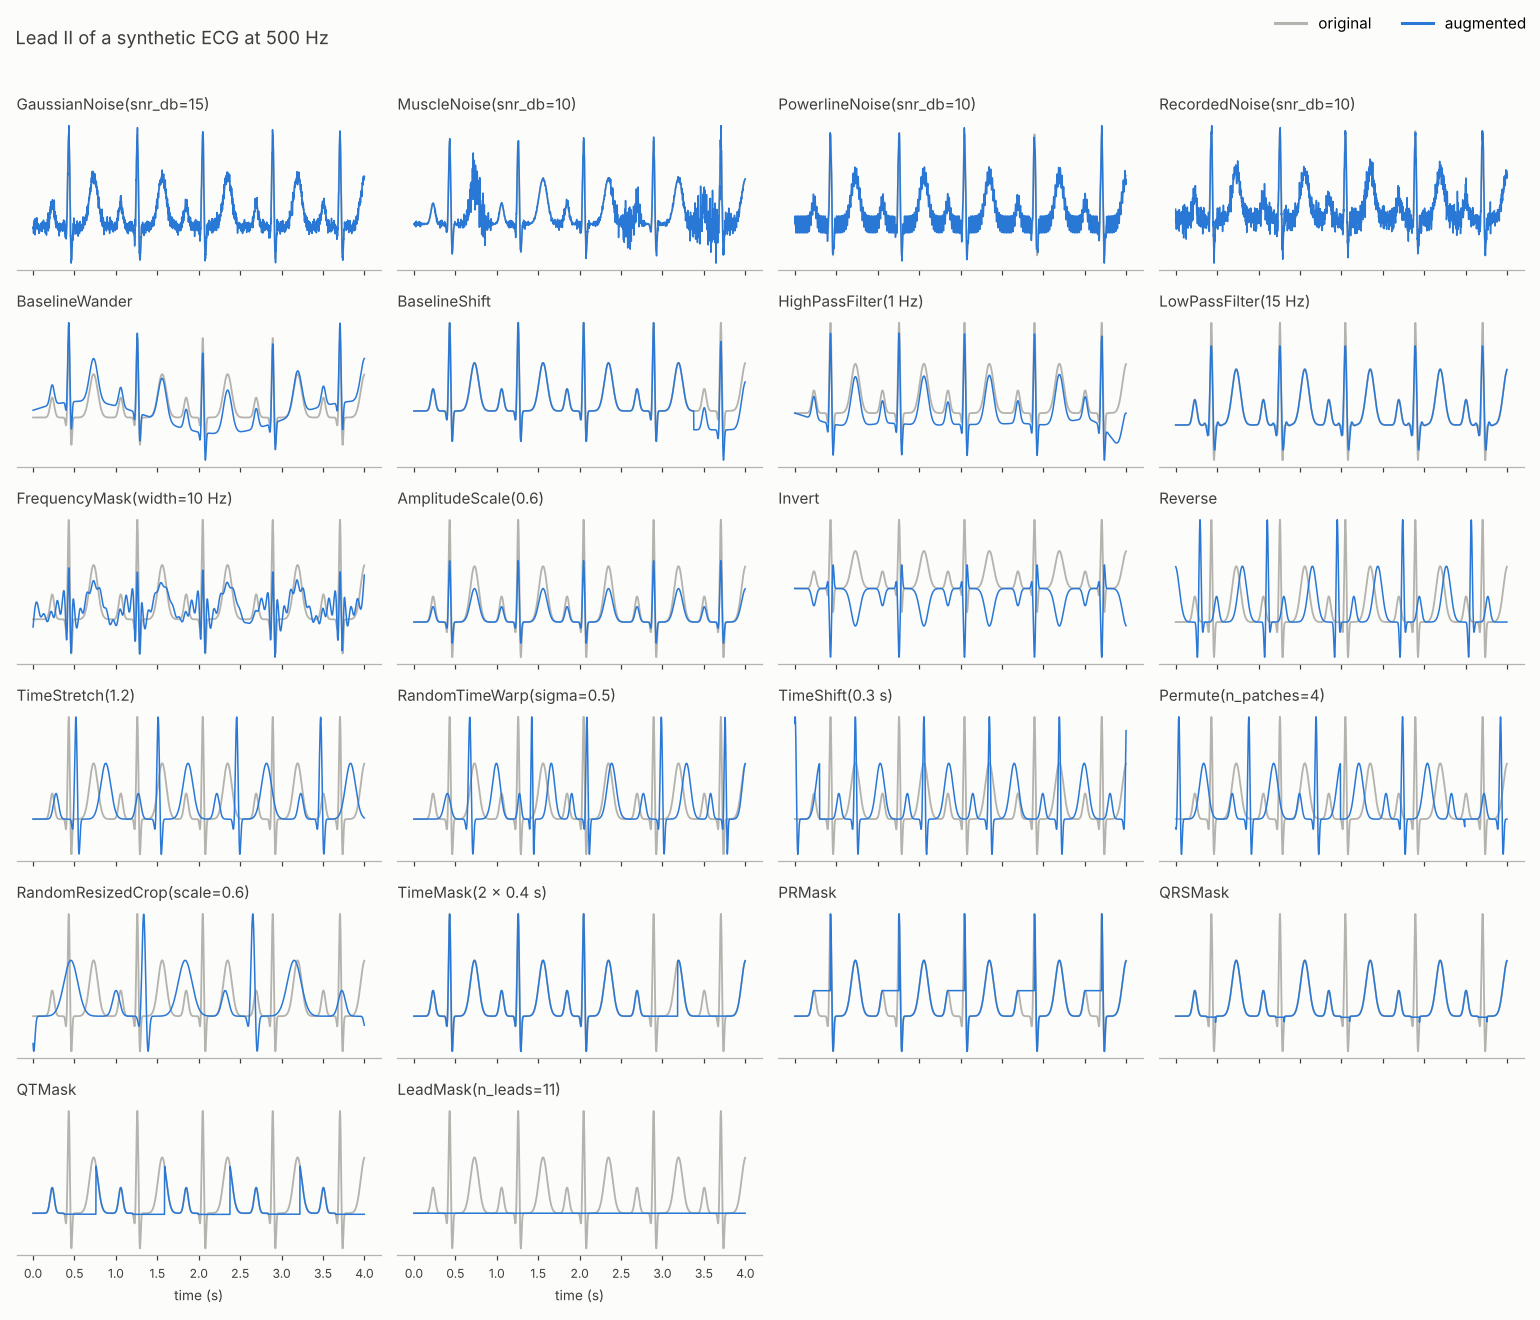
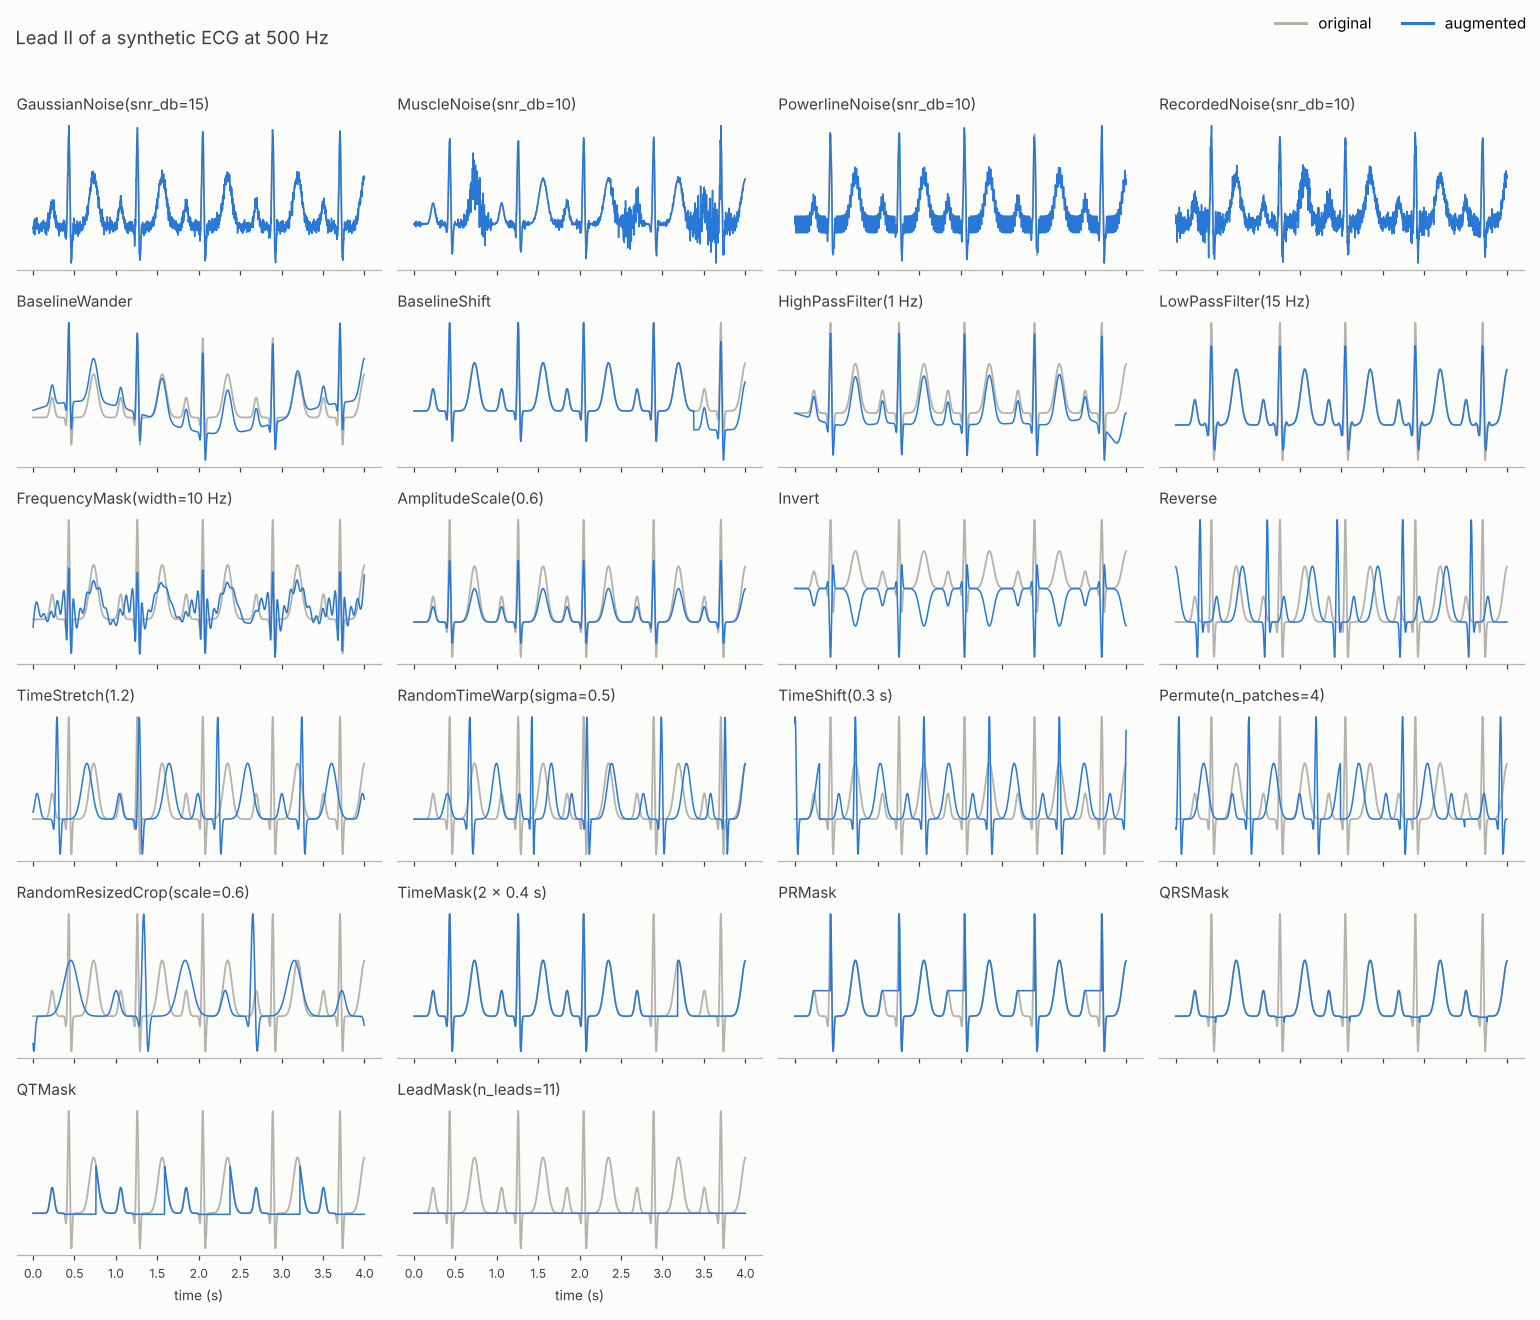
Place TimeStretch window randomly instead of anchoring at the start
Stretching now keeps a random window of the stretched signal without padding;
compressing splits the edge padding randomly between both ends.

Claude-Session: https://claude.ai/code/session_01DPuCMPiJsXBoCGHFpKF4Lr

Changed region(s): [[0.0312, 0.5591, 0.2494, 0.6523], [0.7481, 0.1242, 0.9662, 0.1864]]

diff --git a/ecg_augmentations/augmentations/time.py b/ecg_augmentations/augmentations/time.py
@@ -8,8 +8,9 @@ from ..ops import interp
 class TimeStretch(Transform):
     """Stretch the signal in time by a random factor, keeping its length.
 
-    A factor k > 1 lengthens all intervals (lower heart rate) and drops the end;
-    k < 1 shortens them and pads the end by repeating the last sample.
+    A factor k > 1 lengthens all intervals (lower heart rate) and keeps a random
+    window of the stretched signal; k < 1 shortens them and pads both ends, by a
+    random split, with the edge values.
 
     Args:
         factor: stretch factor or (low, high) range, all positive.
@@ -20,10 +21,11 @@ class TimeStretch(Transform):
         self.factor = as_range(factor, "factor", low=1e-6)
 
     def apply(self, x, generator=None):
-        factor = uniform(self.factor, (x.shape[0], 1, 1), x, generator)
-        return interp(
-            x, torch.arange(x.shape[-1], device=x.device, dtype=x.dtype) / factor
-        )
+        b, _, t = x.shape
+        factor = uniform(self.factor, (b, 1, 1), x, generator)
+        offset = uniform((0, 1), (b, 1, 1), x, generator) * (t - 1) * (1 - 1 / factor)
+        idx = torch.arange(t, device=x.device, dtype=x.dtype)
+        return interp(x, offset + idx / factor)
 
 
 class RandomTimeWarp(Transform):

diff --git a/tests/test_numerics.py b/tests/test_numerics.py
@@ -105,13 +105,24 @@ def test_random_crop_is_window(ecg):
     assert torch.equal(y, ecg[:, start : start + 300])
 
 
-def test_time_stretch(ecg):
+def r_peaks(lead):
+    is_max = (lead[1:-1] > lead[:-2]) & (lead[1:-1] >= lead[2:]) & (lead[1:-1] > 0.6)
+    return is_max.nonzero().flatten() + 1
+
+
+@pytest.mark.parametrize("factor", [0.8, 1.25])
+def test_time_stretch(ecg, factor):
     assert torch.allclose(ea.TimeStretch(1.0)(ecg), ecg, atol=1e-6)
-    y = ea.TimeStretch(1.25)(ecg)
-    stretched = (PEAKS * 1.25).round().long()
-    stretched = stretched[stretched < ecg.shape[-1]]
-    assert torch.allclose(y[0, stretched], ecg[0, PEAKS[: len(stretched)]], atol=0.15)
-    assert torch.all(y[0, stretched] > 0.8)
+    y = ea.TimeStretch(factor)(ecg)
+    rr = r_peaks(y[0]).diff().double().median()
+    assert abs(rr - factor * PEAKS.diff().double().median()) <= 2
+    flat = (y[0].diff() == 0).sum()
+    assert flat == 0 if factor > 1 else flat < 0.25 * ecg.shape[-1]
+
+
+def test_time_stretch_window_is_random(ecg):
+    starts = {int(r_peaks(ea.TimeStretch(1.5)(ecg)[0])[0]) for _ in range(20)}
+    assert len(starts) > 5
 
 
 def test_time_mask_fraction(ecg):
